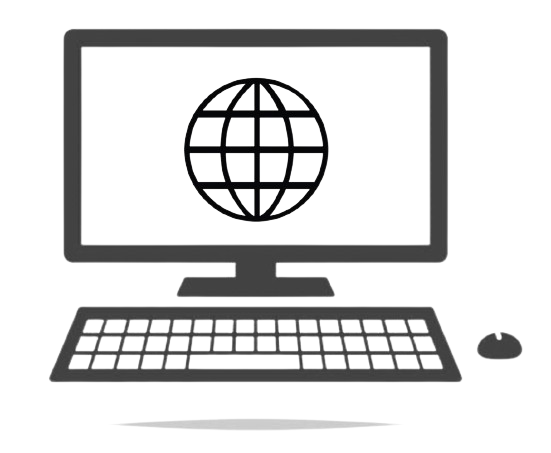
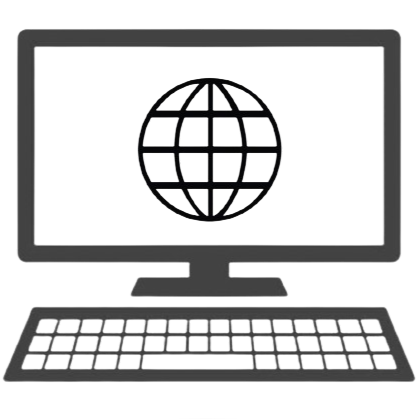
updated projects design

diff --git a/index.html b/index.html
@@ -129,34 +129,40 @@
         <!-- Projects Section -->
         <section id="projects">
             <h2>PROJECTS</h2>
-            <div class="projects-row">
-                <div class="projects-column">
-                    <div class="projects-container">
-                        <p><b>Personal Website</b></p>
-                        <img src="computer.png" alt="computer" class="computer-image">
-                        <p class="projects-text">I coded this website using mostly <b>HTML/CSS</b> and a little bit of Javascript.
-                            I also drew some of these images myself!<br><a class="repo-text" href="https://github.com/veronicangn/personal-website">Repo Link</a>
-                        </p>
-                    </div>
-
-                </div>
-                <div class="projects-column">
-                    <div class="projects-container">
-                        <p><b>Population Data Estimations</b></p>
-                        <img src="histogram.png" alt="histogram" class="histogram-image">
-                        <p class="projects-text">Drew random samples from population to analyze population mean and standard deviation. 
-                            Implemented using <b>Python</b> and <b>Matplotlib</b>.
-                        </p>
+            <div class="grid-container">
+                <div class="grid-item">
+                    <p><b>Portfolio Website</b></p>
+                    <img src="computer.png" alt="computer" class="computer-image">
+                    <div class="overlay">
+                        <div class="projects-text">
+                            I coded this website using mostly <b>HTML/CSS</b> and a little bit of Javascript!
+                            <br><a class="repo-text" href="https://github.com/veronicangn/personal-website">Repo Link</a> 
+                        </div>
                     </div>
                 </div>
-                <div class="projects-column">
-                    <div class="projects-container">
-                        <p><b>Fibonacci Solitaire</b></p>
-                        <img src="cards.png" alt="cards" class="cards-image">
-                        <p class="projects-text">Card Game combining Solitaire and Fibonacci numbers. Implemented in <b>C++</b>.</p>
+                <div class="grid-item">
+                    <p><b>Random Fact Generator</b></p>
+                    <img src="fun fact image.jpg" alt="fact gen" class="fact-gen-image">
+                    <div class="overlay">
+                        <div class="projects-text">
+                            Generates a random fact. Implemented with <b>HTML/CSS</b>, <b>Javascript</b>, 
+                            and a random fact <b>API</b>.
+                            <br><a class="repo-text" href="https://github.com/veronicangn/fact-generator">Repo Link</a>
+                        </div>
+                    </div>
+                </div>
+                <div class="grid-item">
+                    <p><b>Placeholder</b></p>
+                    <img src="fun fact image.jpg" alt="fact gen" class="fact-gen-image">
+                    <div class="overlay">
+                        <div class="projects-text">
+                            placeholder
+                            <br><a class="repo-text" href="">Repo Link</a>
+                        </div>
                     </div>
                 </div>
             </div>
+            
         </section>
         
         <!-- Contact Section -->

diff --git a/styles.css b/styles.css
@@ -165,34 +165,28 @@ div.me-image {
 }
 
 .computer-image {
-    height: 170px;
+    height: 200px;
     width: 220px;
     display: block;
+    margin-top: 30px;
     margin-left: auto;
     margin-right: auto;
+    max-width: 100%;
+    max-height: 100%;
 }
 
-.histogram-image {
-    height: 200px;
-    width: 250px;
+.fact-gen-image {
+    height: 220px;
+    width: 220px;
     display: block;
+    margin-top: 30px;
     margin-left: auto;
     margin-right: auto;
+    max-width: 100%;
+    max-height: 100%;
+    border-radius: 15px;
 }
 
-.cards-image {
-    height: 200px;
-    width: 250px;
-    display: block;
-    margin-left: auto;
-    margin-right: auto;
-}
-
-.logoscontainer img {
-    display: inline-block;
-    margin: 5px;
-    vertical-align: middle;
-}
 
 /* Scroll Down Button */
 button {
@@ -239,12 +233,6 @@ button {
     width: 50%;
     padding: 10px;
 }
-  
-.projects-column {
-    float: left;
-    width: 33.33%;
-    padding: 10px;
-}
 
 .education-row:after, .projects-row:after {
     content: "";
@@ -275,26 +263,55 @@ ul.list {
     padding: 0;
 }
 
-.projects-container {
-    text-align: center;
-    margin: auto;
-    border: solid 5px lavender;
-    border-radius: 15px;
-    box-sizing: border-box;
-    padding: 5px;
+.grid-container {
+    display: grid;
+    grid-template-columns: auto auto auto;
+    padding: 10px;
+    grid-column-gap: 20px;
+    grid-row-gap: 20px;
 }
 
-.projects-container:hover {
-    background-color: #F0EDF2;
+.grid-item {
+    background-color: white;
+    border: 5px solid lavender;
+    border-radius: 15px;
+    padding: 20px;
+    font-size: 30px;
+    text-align: center;
+    justify-content: center;
+    height: 350px;
+    position: relative;
+}
+
+.overlay {
+    position: absolute;
+    top: 0;
+    bottom: 0;
+    left: 0;
+    right: 0;
+    height: 100%;
+    width: 100%;
+    opacity: 0;
+    transition: .5s ease;
+    background-color: lavender;
+}
+
+.grid-item:hover .overlay{
+    opacity: 1;
 }
 
 .projects-text {
     max-width: 300px;
     margin: auto;
-    padding: 50px;
+    padding: 20px;
     box-sizing: border-box;
     font-family: Jost;
-    font-size:15px;
+    font-size: 17px;
+    text-align: center;
+    position: absolute;
+    top: 50%;
+    left: 50%;
+    transform: translate(-50%, -50%);
 }
 
 /* Contact Me */
@@ -328,12 +345,12 @@ ul.list {
 /* Repo Links Decoration */
 .repo-text{
     text-decoration: none;
-    color: rgb(172, 98, 172);
+    color: gray;
     transition: color 0.2s ease;
 }
 
 .repo-text:hover {
-    color: gray;
+    color: rgb(172, 98, 172);
 }
 
 
@@ -400,7 +417,6 @@ ul.list {
 
     .intro-column,
     .education-column,
-    .projects-column,
     .second-column {
         width: 100%;
         padding: 8px;
